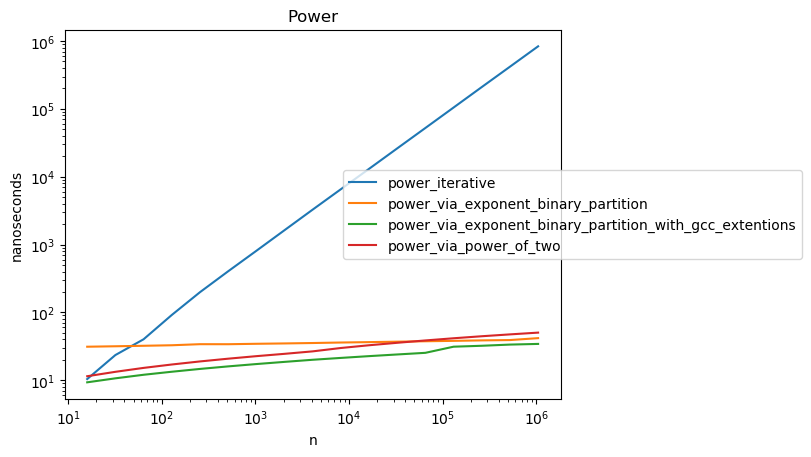
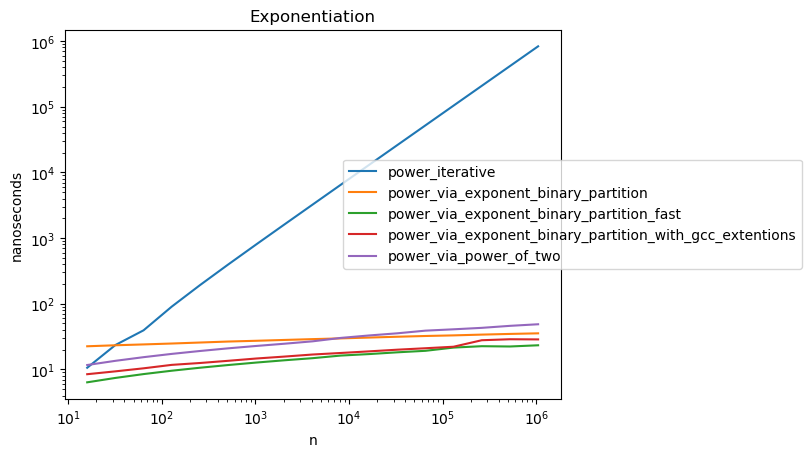
HW04 | review fix

diff --git a/04_algebraic/algebraic.hpp b/04_algebraic/algebraic.hpp
@@ -69,7 +69,7 @@ T power_iterative(T base, unsigned int exponent)
     return result;
 }
 
-// power_via_power_of_2 - возведение в степень через степень двойки с умножением
+// power_via_power_of_two - возведение в степень через степень двойки с умножением
 template <typename T>
 T power_via_power_of_two(T base, unsigned int exponent)
 {
@@ -135,6 +135,24 @@ T power_via_exponent_binary_partition_with_gcc_extentions(T base, unsigned int e
     return result;
 }
 #endif
+
+// power_via_exponent_binary_partition_fast
+template <typename T>
+T power_via_exponent_binary_partition_fast(T base, unsigned int exponent)
+{
+    T result = 1;
+    while (exponent > 1) {
+        if (exponent % 2 == 1) {
+            result *= base;
+        }
+        base *= base;
+        exponent /= 2;
+    }
+    if (exponent > 0) {
+        result *= base;
+    }
+    return result;
+}
 
 // --------- Fibonacci numbers ------------
 
@@ -297,7 +315,7 @@ void prime_numbers_bruteforce_optimized(T n, std::vector<T>& result)
 template <typename T, typename = std::enable_if_t<std::is_unsigned_v<T>>>
 void prime_numbers_eratosthenes_sieve(T n, std::vector<T>& result)
 {
-    if (n <= 3) {
+    if (n <= 2) {
         prime_numbers_bruteforce_optimized(n, result);
         return;
     }
@@ -307,18 +325,15 @@ void prime_numbers_eratosthenes_sieve(T n, std::vector<T>& result)
         flags.push_back(true);
     }
 
-    for (T i = 3; power_via_exponent_binary_partition_with_gcc_extentions<T>(i, 2) <= n; i += 2) {
+    for (T i = 2; power_via_exponent_binary_partition_with_gcc_extentions<T>(i, 2) <= n; i += 1) {
         if (flags[i]) {
             for (T j = power_via_exponent_binary_partition_with_gcc_extentions<T>(i, 2); j <= n; j += i) {
                 flags[j] = false;
             }
         }
-        if (i < n) {
-            flags[i + 1] = false;
-        }
     }
 
-    for (T i = 1; i <= n; i++) {
+    for (T i = 2; i <= n; i++) {
         if (flags[i]) {
             result.push_back(i);
         }

diff --git a/04_algebraic/algebraic_bench.cpp b/04_algebraic/algebraic_bench.cpp
@@ -60,6 +60,11 @@ static void BM_04_power_via_exponent_binary_partition_with_gcc_extentions(benchm
     power(state, power_via_exponent_binary_partition_with_gcc_extentions<int>);
 }
 
+static void BM_04_power_via_exponent_binary_partition_fast(benchmark::State& state)
+{
+    power(state, power_via_exponent_binary_partition_fast<int>);
+}
+
 BENCHMARK(BM_04_power_iterative)->RangeMultiplier(2)->Range(1 << 4, 1 << 20)->Complexity(benchmark::oN);
 BENCHMARK(BM_04_power_via_power_of_two)->RangeMultiplier(2)->Range(1 << 4, 1 << 20)->Complexity(benchmark::oN);
 BENCHMARK(BM_04_power_via_exponent_binary_partition)->RangeMultiplier(2)->Range(1 << 4, 1 << 20)->Complexity(benchmark::oN);
@@ -67,6 +72,7 @@ BENCHMARK(BM_04_power_via_exponent_binary_partition_with_gcc_extentions)
     ->RangeMultiplier(2)
     ->Range(1 << 4, 1 << 20)
     ->Complexity(benchmark::oN);
+BENCHMARK(BM_04_power_via_exponent_binary_partition_fast)->RangeMultiplier(2)->Range(1 << 4, 1 << 20)->Complexity(benchmark::oN);
 
 // fibonacci
 

diff --git a/04_algebraic/algebraic_test.cpp b/04_algebraic/algebraic_test.cpp
@@ -32,6 +32,7 @@ TEST_CASE("Exponentiation")
     section(power_via_power_of_two<int>, "via power of two");
     section(power_via_exponent_binary_partition<int>, "via exponent binary partition");
     section(power_via_exponent_binary_partition_with_gcc_extentions<int>, "via exponent binary partition with GCC extentions");
+    section(power_via_exponent_binary_partition_fast<int>, "via exponent binary partition fast");
 }
 
 TEST_CASE("Fibonacci")
@@ -92,5 +93,5 @@ TEST_CASE("Prime numbers")
 
     section(prime_numbers_bruteforce<uint>, "bruteforce");
     section(prime_numbers_bruteforce_optimized<uint>, "bruteforce_optimized");
-    // section(prime_numbers_eratosthenes_sieve<uint>, "eratosthenes_sieve");
+    section(prime_numbers_eratosthenes_sieve<uint>, "eratosthenes_sieve");
 }
